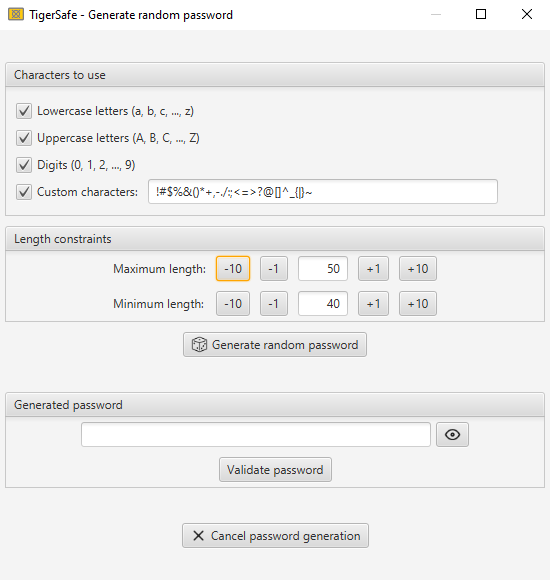
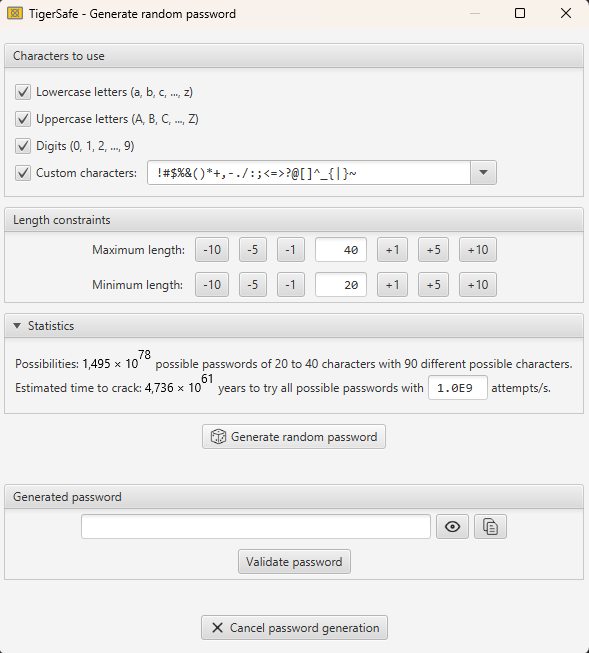
Adds copy button for generated password

diff --git a/tigersafe-ui/src/main/java/fr/tigeriodev/tigersafe/ui/contents/GeneratePasswordPopup.java b/tigersafe-ui/src/main/java/fr/tigeriodev/tigersafe/ui/contents/GeneratePasswordPopup.java
@@ -34,6 +34,7 @@ import fr.tigeriodev.tigersafe.Lang;
 import fr.tigeriodev.tigersafe.logs.Logger;
 import fr.tigeriodev.tigersafe.logs.Logs;
 import fr.tigeriodev.tigersafe.ui.UIApp;
+import fr.tigeriodev.tigersafe.ui.UIConfig;
 import fr.tigeriodev.tigersafe.ui.UIUtils;
 import fr.tigeriodev.tigersafe.ui.fields.DoubleDisplay;
 import fr.tigeriodev.tigersafe.ui.fields.DoubleField;
@@ -57,6 +58,7 @@ import javafx.scene.control.Label;
 import javafx.scene.control.TitledPane;
 import javafx.scene.layout.GridPane;
 import javafx.scene.layout.HBox;
+import javafx.scene.layout.Priority;
 import javafx.scene.layout.VBox;
 import javafx.stage.Modality;
 import javafx.stage.Stage;
@@ -172,6 +174,10 @@ public class GeneratePasswordPopup implements Destroyable {
         
         resultField = new ViewableUnclearField(new MutableString.Simple());
         HBox resultPwHBox = UIUtils.newViewableUnclearFieldHBox(resultField);
+        Button resultPwCopyBtn = UIUtils
+                .newCopyBtn(resultField, "SafeContentsUI.passwordEntry.password.copy.button");
+        HBox.setHgrow(resultPwCopyBtn, Priority.NEVER);
+        resultPwHBox.getChildren().add(resultPwCopyBtn);
         
         Button validateBtn = new Button(Lang.get(POPUP_LANG_BASE + ".result.validate.button.text"));
         
@@ -292,6 +298,12 @@ public class GeneratePasswordPopup implements Destroyable {
         cancelBtn.setOnAction((e) -> {
             stage.close();
         });
+        
+        UIUtils.setButtonShortcut(
+                scene,
+                UIConfig.KeyboardShortcut.COPY_PASSWORD.getKeyCombination(),
+                resultPwCopyBtn
+        );
         
         GlobalConfig conf = GlobalConfig.getInstance();
         minLenField.setVal(conf.getPwGenerationMinLen(), false);
